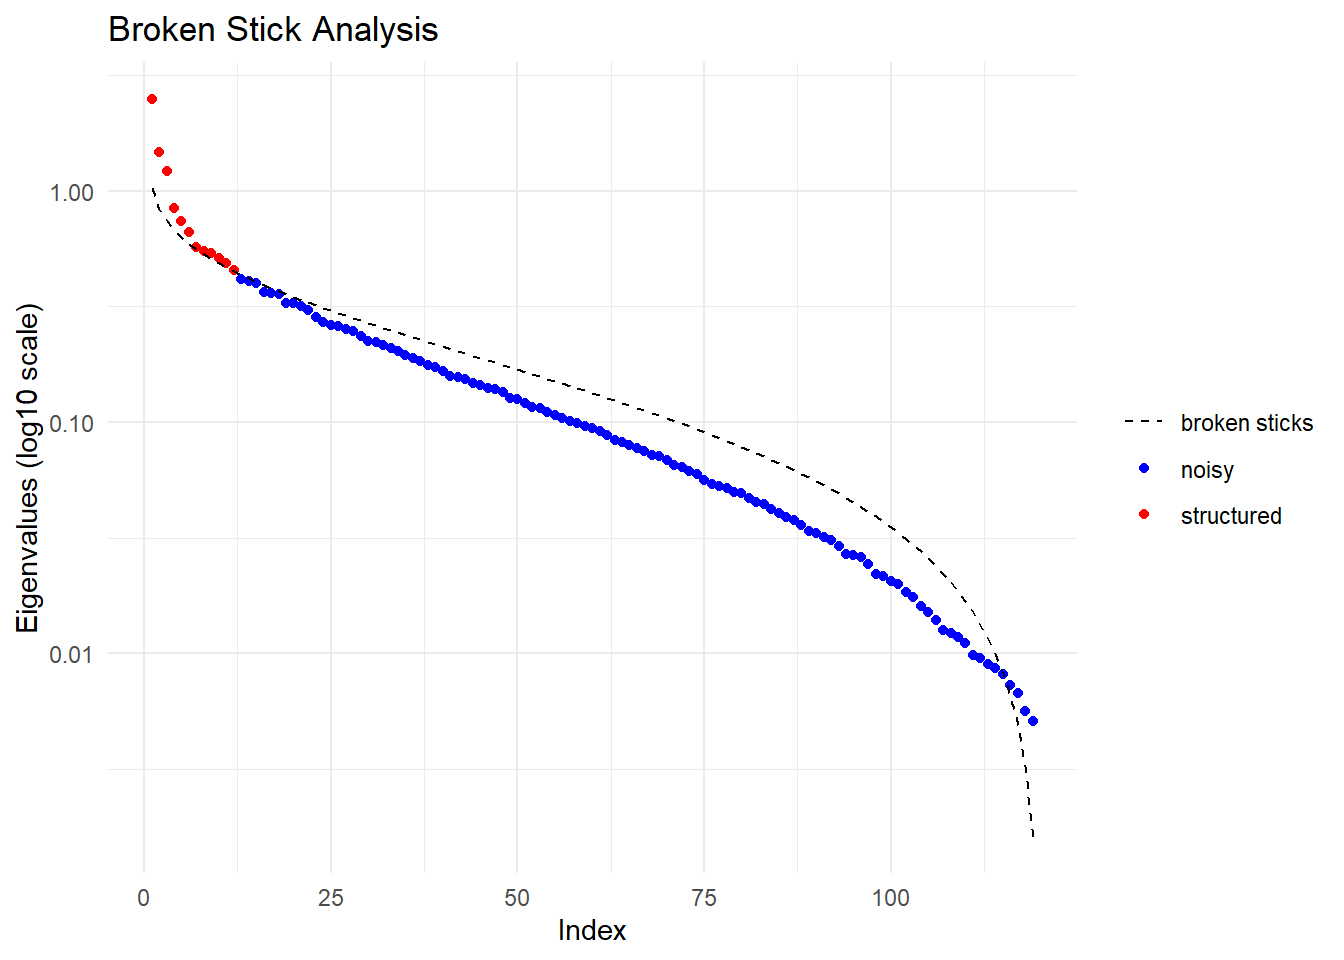
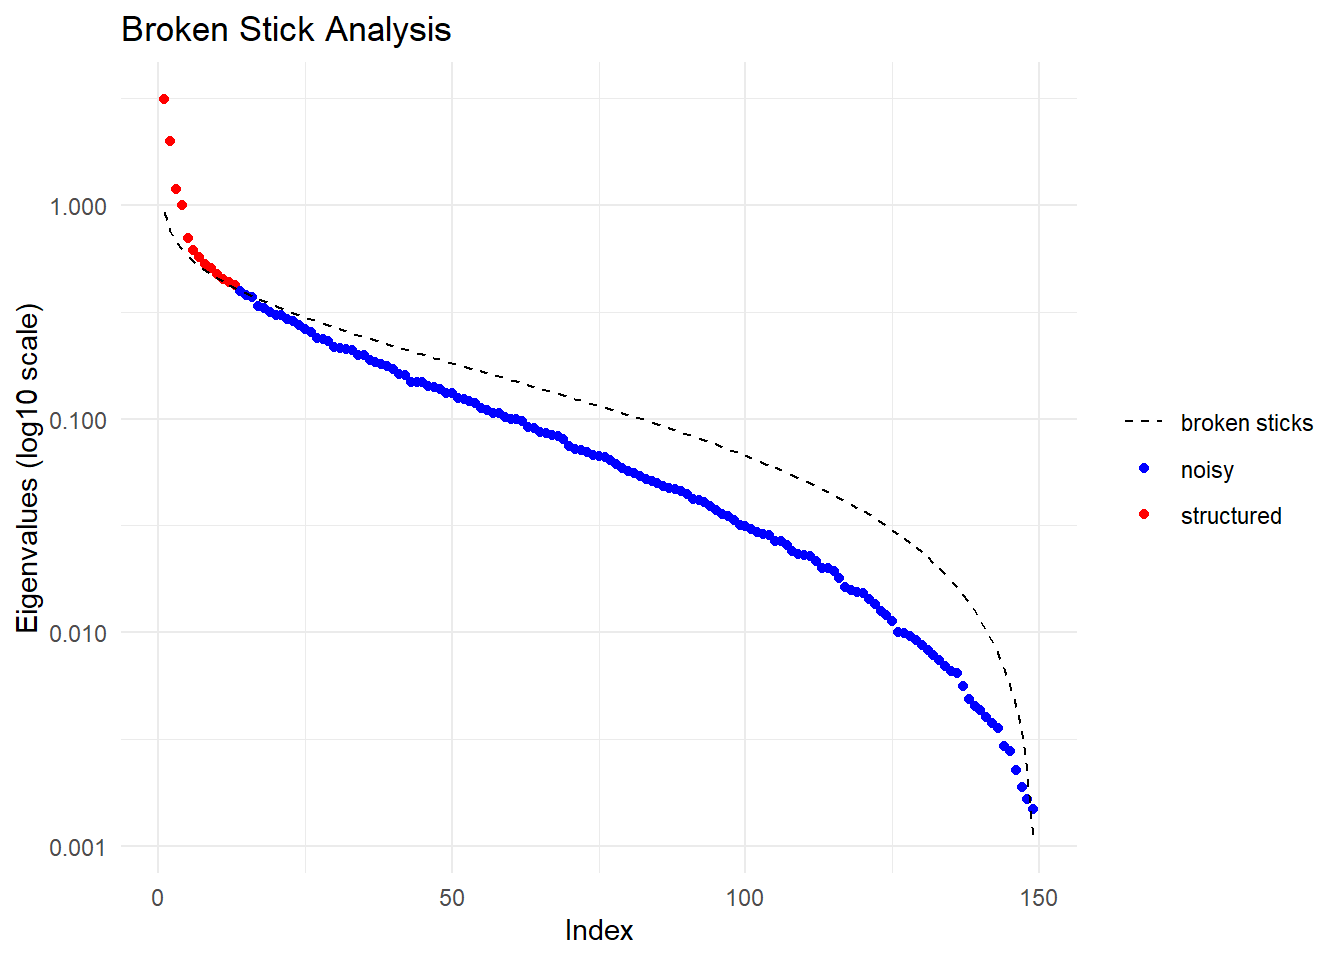
sesh3 updates

diff --git a/docs/session03.html b/docs/session03.html
@@ -291,10 +291,12 @@ pre > code.sourceCode > span > a:first-child::before { text-decoration: underlin
   <ul class="collapse">
   <li><a href="#analytical-toolkit" id="toc-analytical-toolkit" class="nav-link" data-scroll-target="#analytical-toolkit">Analytical toolkit</a></li>
   </ul></li>
-  <li><a href="#example" id="toc-example" class="nav-link" data-scroll-target="#example">Example</a>
-  <ul class="collapse">
-  <li><a href="#select-one-cluster" id="toc-select-one-cluster" class="nav-link" data-scroll-target="#select-one-cluster">Select one cluster</a></li>
+  <li><a href="#example" id="toc-example" class="nav-link" data-scroll-target="#example">Example</a></li>
   </ul></li>
+  <li><a href="#pca" id="toc-pca" class="nav-link" data-scroll-target="#pca">PCA</a>
+  <ul>
+  <li><a href="#select-one-cluster" id="toc-select-one-cluster" class="nav-link" data-scroll-target="#select-one-cluster">Select one cluster</a></li>
+  <li><a href="#canberra-grassland-earless-dragon" id="toc-canberra-grassland-earless-dragon" class="nav-link" data-scroll-target="#canberra-grassland-earless-dragon">Canberra grassland earless dragon</a></li>
   <li><a href="#what-can-go-wrong" id="toc-what-can-go-wrong" class="nav-link" data-scroll-target="#what-can-go-wrong">What can go wrong</a></li>
   </ul></li>
   <li><a href="#structure-and-faststructure-bayesian-clustering-models" id="toc-structure-and-faststructure-bayesian-clustering-models" class="nav-link" data-scroll-target="#structure-and-faststructure-bayesian-clustering-models">Structure and FastStructure (Bayesian clustering models)</a>
@@ -359,6 +361,7 @@ pre > code.sourceCode > span > a:first-child::before { text-decoration: underlin
 <section id="introduction" class="level3">
 <h3 class="anchored" data-anchor-id="introduction">Introduction</h3>
 <p><em>Why population structure matters</em></p>
+<p><img src="images/pop_comp.jpg" class="img-fluid"></p>
 <ul>
 <li><p>What is a “population” in population genetics?</p></li>
 <li><p>Genetic structure defined – how allele frequencies vary among groups.</p></li>
@@ -366,6 +369,8 @@ pre > code.sourceCode > span > a:first-child::before { text-decoration: underlin
 <li><p>Isolation-by-distance &amp; sampling design – avoiding spurious structure.</p></li>
 <li><p>Why we care: management units, inbreeding, local adaptation, introgression.</p></li>
 </ul>
+<p><img src="images/pop_spp.png" class="img-fluid"></p>
+<p><img src="images/ibd.png" class="img-fluid"></p>
 <section id="analytical-toolkit" class="level4">
 <h4 class="anchored" data-anchor-id="analytical-toolkit">Analytical toolkit</h4>
 <table class="caption-top table">
@@ -433,6 +438,15 @@ Completed: gl.map.interactive </code></pre>
 </div>
 </div>
 <p>The populations are fairly independent but are linked by some imigration, so a typical Metapopulation scenario. The populations are named A to J and follow more or less an isolation by distance. So population next to each other (e.g.&nbsp;B and C) are fairly well mixed and populations further apart from the rest (e.g.&nbsp;D) are more isolated.</p>
+</section>
+</section>
+<section id="pca" class="level2">
+<h2 class="anchored" data-anchor-id="pca">PCA</h2>
+<p>Principal Component Analysis (PCA) is a powerful statistical technique used for dimensionality reduction, data visualization, and feature extraction. In many real-world datasets, like our SNP datasets, data can have a very high number of features or dimensions. PCA helps by transforming the data into a new coordinate system where most of the variability in the data can be captured in fewer dimensions.</p>
+<p>At its core, PCA identifies the directions (called principal components) along which the variation in the data is highest. These directions are orthogonal (perpendicular) to each other and are ranked by how much variance they capture from the original data. By projecting data onto the top few principal components, we can often retain the most important information while discarding noise or less useful details.</p>
+<p><img src="images/pca.png" class="img-fluid"></p>
+<p><img src="images/snp_plot.jpg" class="img-fluid"></p>
+<p><a href="Distances and their visualization in studies of spatial-temporal genetic variation using single nucleotide polymorphisms (SNPs) | bioRxiv">Great paper on PCA</a>!</p>
 <div class="cell">
 <div class="sourceCode cell-code" id="cb6"><pre class="sourceCode r code-with-copy"><code class="sourceCode r"><span id="cb6-1"><a href="#cb6-1" aria-hidden="true" tabindex="-1"></a><span class="co"># Undertake a PCA on the raw data</span></span>
 <span id="cb6-2"><a href="#cb6-2" aria-hidden="true" tabindex="-1"></a>pc <span class="ot">&lt;-</span> <span class="fu">gl.pcoa</span>(possums.gl, <span class="at">verbose =</span> <span class="dv">3</span>)</span></code><button title="Copy to Clipboard" class="code-copy-button"><i class="bi"></i></button></pre></div>
@@ -513,7 +527,7 @@ Returning the palette you asked for with that many colors</code></pre>
 <h4 class="anchored" data-anchor-id="select-one-cluster">Select one cluster</h4>
 <div class="cell">
 <div class="sourceCode cell-code" id="cb18"><pre class="sourceCode r code-with-copy"><code class="sourceCode r"><span id="cb18-1"><a href="#cb18-1" aria-hidden="true" tabindex="-1"></a><span class="co"># Select only the data from one cluster in the primary PCA</span></span>
-<span id="cb18-2"><a href="#cb18-2" aria-hidden="true" tabindex="-1"></a>temp <span class="ot">&lt;-</span> <span class="fu">gl.drop.pop</span>(<span class="at">x =</span> possums.gl, <span class="at">pop.list =</span> <span class="fu">c</span>(<span class="st">'D'</span>, <span class="st">'A'</span>, <span class="st">'E'</span>, <span class="st">'F'</span>, <span class="st">'H'</span>, <span class="st">'G'</span>))</span></code><button title="Copy to Clipboard" class="code-copy-button"><i class="bi"></i></button></pre></div>
+<span id="cb18-2"><a href="#cb18-2" aria-hidden="true" tabindex="-1"></a>temp <span class="ot">&lt;-</span> <span class="fu">gl.drop.pop</span>(<span class="at">x =</span> possums.gl, <span class="at">pop.list =</span> <span class="fu">c</span>(<span class="st">'D'</span>, <span class="st">'A'</span>, <span class="st">'E'</span>, <span class="st">'F'</span>, <span class="st">'H'</span>))</span></code><button title="Copy to Clipboard" class="code-copy-button"><i class="bi"></i></button></pre></div>
 <div class="cell-output cell-output-stdout">
 <pre><code>Starting gl.drop.pop 
   Processing genlight object with SNP data
@@ -549,10 +563,10 @@ Completed: gl.drop.pop </code></pre>
 </div>
 </div>
 <div class="cell-output cell-output-stdout">
-<pre><code>  Ordination yielded 12 informative dimensions( broken-stick criterion) from 119 original dimensions
-    PCA Axis 1 explains 11 % of the total variance
-    PCA Axis 1 and 2 combined explain 17.4 % of the total variance
-    PCA Axis 1-3 combined explain 22.7 % of the total variance
+<pre><code>  Ordination yielded 13 informative dimensions( broken-stick criterion) from 149 original dimensions
+    PCA Axis 1 explains 12.8 % of the total variance
+    PCA Axis 1 and 2 combined explain 20.9 % of the total variance
+    PCA Axis 1-3 combined explain 25.7 % of the total variance
 Starting gl.colors 
 Selected color type 2 
 Completed: gl.colors </code></pre>
@@ -587,13 +601,22 @@ Completed: gl.colors </code></pre>
 </div>
 </div>
 </section>
+<section id="canberra-grassland-earless-dragon" class="level3">
+<h3 class="anchored" data-anchor-id="canberra-grassland-earless-dragon">Canberra grassland earless dragon</h3>
+<p>The Canberra Grassland Earless Dragon (<em>Tympanocryptis lineata</em>) is a small lizard that is usually less than 150 mm long and weighs 5–9 g. Each one has distinctive markings on its back that can be used to identify individuals.</p>
+<p>Canberra Grassland Earless Dragons are grassland specialists, preferring natural temperate grasslands. Found in ACT grasslands and adjacent grasslands in NSW.</p>
+<p><img src="images/ged_map1.png" class="class" width="480" height="680"></p>
+<p>Lets take at a look at the pca of CGED.</p>
+<p><img src="images/ged_pca.png" class="img-fluid"></p>
+<p>There seems to be some grasslands more isolated than others.</p>
+<p><img src="images/ged_map.png" class="img-fluid"></p>
 </section>
 <section id="what-can-go-wrong" class="level3">
 <h3 class="anchored" data-anchor-id="what-can-go-wrong">What can go wrong</h3>
+<p>PCA is a hypothesis generating tool, not a tool for definitive decisions of the structure of populations.</p>
 <p>Missing data causes distortion, which can lead to misinterpretation.</p>
 <p>dartR, that uses the <code>adgenet</code> package for its pca, fills missing data with the global average.</p>
 <p>You can choose alternative methods of filling in the missing data prior to running your pca using the <code>gl.impute</code> function.</p>
-<p>PCA is a hypothesis generating tool, not a tool for definitive decisions of the structure of populations.</p>
 <p>Structure variants can also turn up on a PCA, like an inversion.</p>
 <p><img src="images/inversion_pca.png" class="img-fluid"></p>
 <p>PCA is sample size dependent - but this is more for the top two dimensions not all the informative dimensions.</p>
